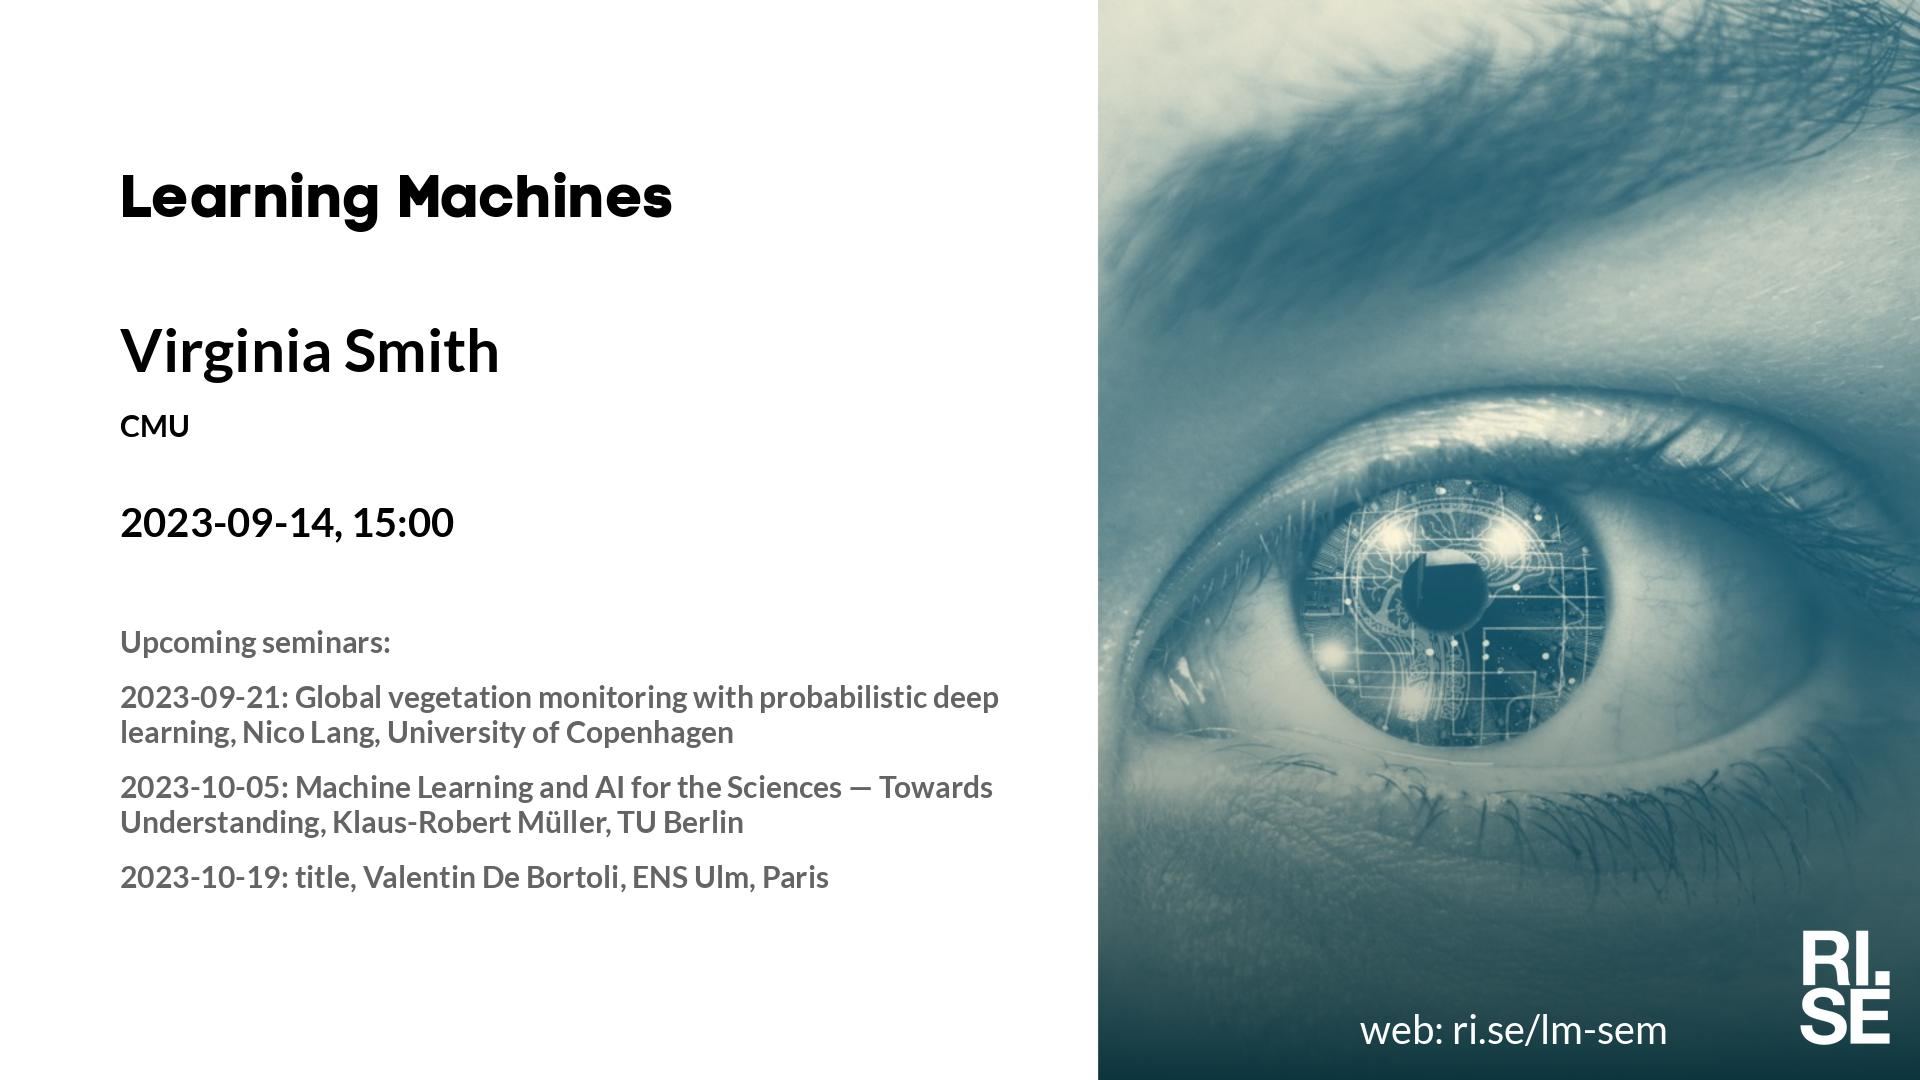
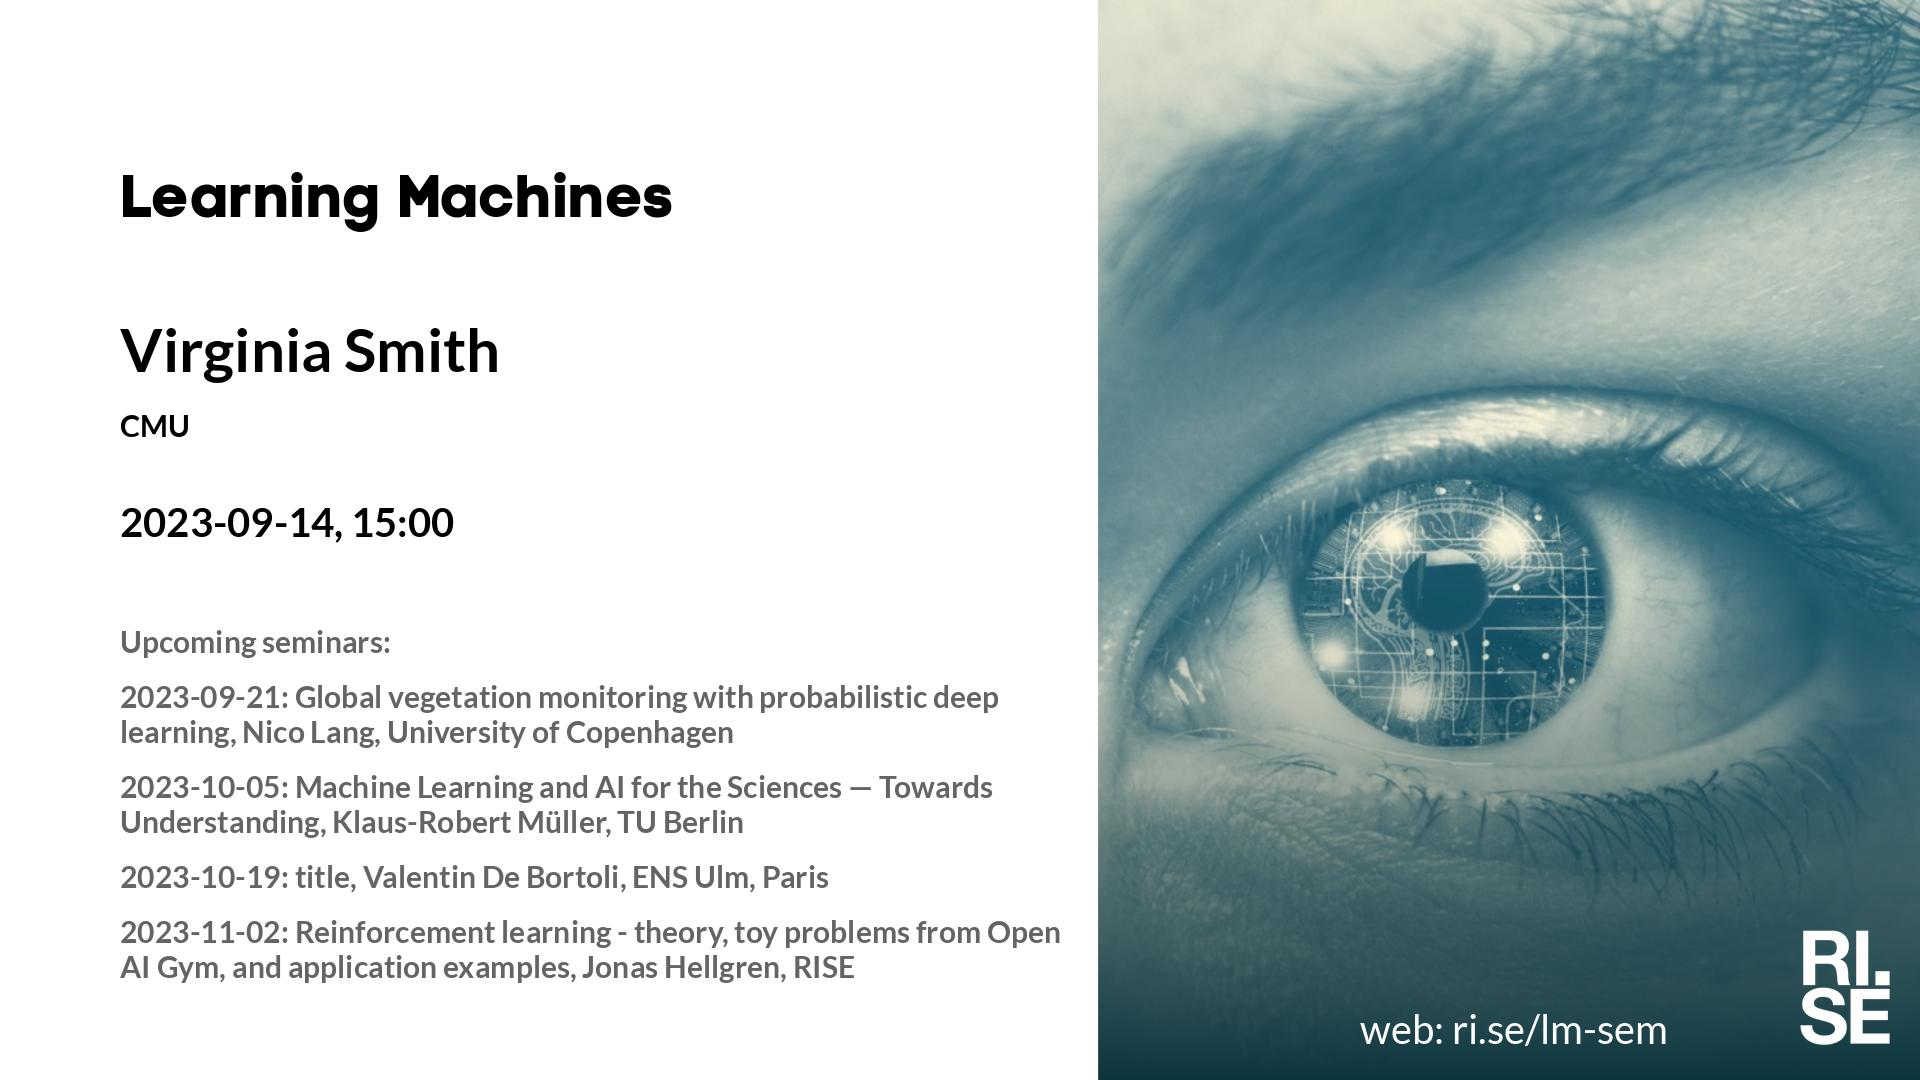
Updated plan on web site.

Changed region(s): [[0.0625, 0.8556, 0.5625, 0.9167]]

diff --git a/lm/index.md b/lm/index.md
@@ -11,6 +11,7 @@ table {border-collapse: collapse;}
 | ---- | ----------------------------------------- | ----- | ----- | ----- | ----- | -------------- |
 |  2023-08-31  |  [Zahra Taghiyar Renan, Halmstad University](2023-08-31.md)  |  [photo](photo-zahra-taghiyar-renan.jpg)  |  [social media ](social-media-zahra-taghiyar-renan.jpg)  |  [meeting backdrop ](meeting-backdrop-zahra-taghiyar-renan.jpg)  |  [youtube thumbnail ](youtube-thumbnail-zahra-taghiyar-renan.jpg)  |  STABP  |
 | <span style="color:grey"> 2023-09-07 </span> | <span style="color:grey"> Adam B. ? </span> | <span style="color:grey">  </span> | <span style="color:grey">  </span> | <span style="color:grey">  </span> | <span style="color:grey">  </span> | <span style="color:grey"> ?TAB~~P~~ </span> |
+|  2023-09-14  |  [Virginia Smith, CMU](2023-09-14.md)  |    |  [social media ](social-media-virginia-smith.jpg)  |  [meeting backdrop ](meeting-backdrop-virginia-smith.jpg)  |  [youtube thumbnail ](youtube-thumbnail-virginia-smith.jpg)  |  STAB~~P~~  |
 |  2023-09-21  |  [Nico Lang, University of Copenhagen](2023-09-21.md)  |  [photo](photo-nico-lang.jpg)  |  [social media ](social-media-nico-lang.jpg)  |  [meeting backdrop ](meeting-backdrop-nico-lang.jpg)  |  [youtube thumbnail ](youtube-thumbnail-nico-lang.jpg)  |  STABP  |
 | <span style="color:grey"> 2023-09-28 </span> | <span style="color:grey"> Jaakko P. ? </span> | <span style="color:grey">  </span> | <span style="color:grey">  </span> | <span style="color:grey">  </span> | <span style="color:grey">  </span> | <span style="color:grey"> ?TAB~~P~~ </span> |
 |  2023-10-05  |  [Klaus-Robert Müller, TU Berlin](2023-10-05.md)  |  [photo](photo-klaus-robert-muller.jpg)  |  [social media ](social-media-klaus-robert-muller.jpg)  |  [meeting backdrop ](meeting-backdrop-klaus-robert-muller.jpg)  |  [youtube thumbnail ](youtube-thumbnail-klaus-robert-muller.jpg)  |  STABP  |

diff --git a/lm/2023-09-14.md b/lm/2023-09-14.md
@@ -14,13 +14,14 @@ Welcome to this week's Learning Machines seminar.
 
 **Location:** location, or online using Zoom.
 
-**Zoom link:** [https://rise.zoom.us/j/208117140](https://rise.zoom.us/j/208117140)
+**Zoom link:** [https://rise.zoom.us/j/208117140?pwd=MWwvQXpId012U2pNMDc3TlgrSXQ5UT09](https://rise.zoom.us/j/208117140?pwd=MWwvQXpId012U2pNMDc3TlgrSXQ5UT09)
 
 **Upcoming seminars:**
 
 * 2023-09-21: *Global vegetation monitoring with probabilistic deep learning*, Nico Lang, University of Copenhagen
 * 2023-10-05: *Machine Learning and AI for the Sciences — Towards Understanding*, Klaus-Robert Müller, TU Berlin
 * 2023-10-19: *title*, Valentin De Bortoli, ENS Ulm, Paris
+* 2023-11-02: *Reinforcement learning - theory, toy problems from Open AI Gym, and application examples*, Jonas Hellgren, RISE
 
 More information and coming seminars: [https://ri.se/lm-sem](https://ri.se/lm-sem)
 

diff --git a/lm/2023-08-31.md b/lm/2023-08-31.md
@@ -18,10 +18,10 @@ Welcome to this week's Learning Machines seminar.
 
 **Upcoming seminars:**
 
+* 2023-09-14: *title*, Virginia Smith, CMU
 * 2023-09-21: *Global vegetation monitoring with probabilistic deep learning*, Nico Lang, University of Copenhagen
 * 2023-10-05: *Machine Learning and AI for the Sciences — Towards Understanding*, Klaus-Robert Müller, TU Berlin
 * 2023-10-19: *title*, Valentin De Bortoli, ENS Ulm, Paris
-* 2023-11-02: *Reinforcement learning - theory, toy problems from Open AI Gym, and application examples*, Jonas Hellgren, RISE
 
 More information and coming seminars: [https://ri.se/lm-sem](https://ri.se/lm-sem)
 
